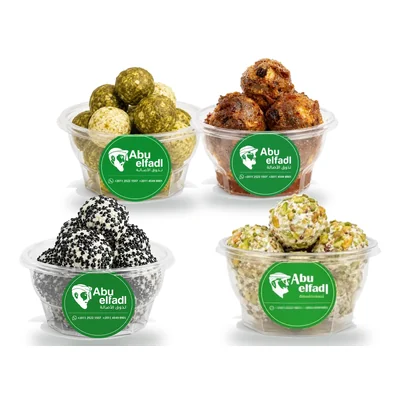
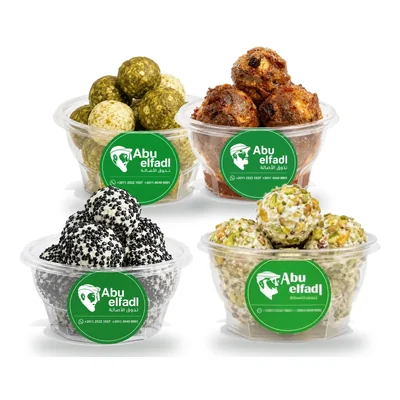
Syrian products cover: tubs closer together
Claude-Session: https://claude.ai/code/session_01HaM8F3VJv6dgB34RjCmCBJ

diff --git a/abuelfadl-store/src/styles/24-category-covers.css b/abuelfadl-store/src/styles/24-category-covers.css
@@ -102,7 +102,7 @@
 }
 
 /* Syrian products cover (SyrianCover): four labneh-ball tubs, two at the back and two in front */
-.cvsy-zaatar{left:27.69%;top:26.80%;width:25.31%;z-index:1;--dl:0.1s}
-.cvsy-makdous{left:49.38%;top:24.70%;width:24.38%;z-index:1;--dl:0.22s}
-.cvsy-blackseed{left:21.56%;top:60.40%;width:25.62%;z-index:3;--dl:0.4s}
-.cvsy-pistachio{left:53.62%;top:60.00%;width:27.19%;z-index:3;--dl:0.52s}
+.cvsy-zaatar{left:29.56%;top:28.80%;width:25.31%;z-index:1;--dl:0.1s}
+.cvsy-makdous{left:47.50%;top:26.70%;width:24.38%;z-index:1;--dl:0.22s}
+.cvsy-blackseed{left:24.69%;top:59.40%;width:25.62%;z-index:3;--dl:0.4s}
+.cvsy-pistachio{left:50.81%;top:59.00%;width:27.19%;z-index:3;--dl:0.52s}
